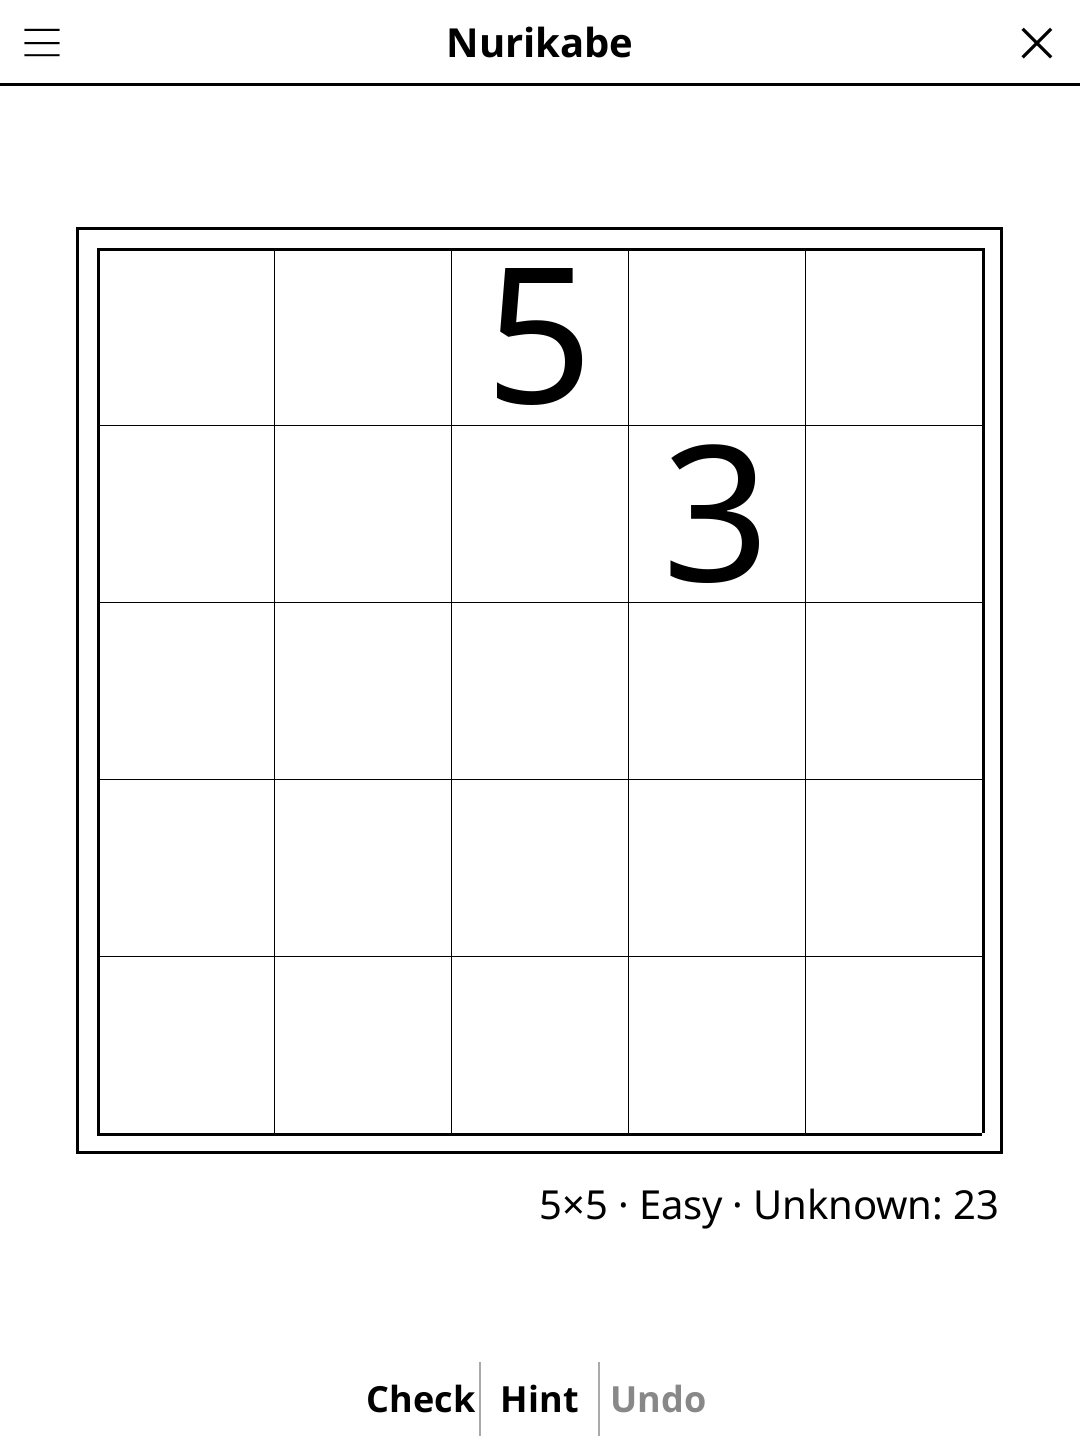
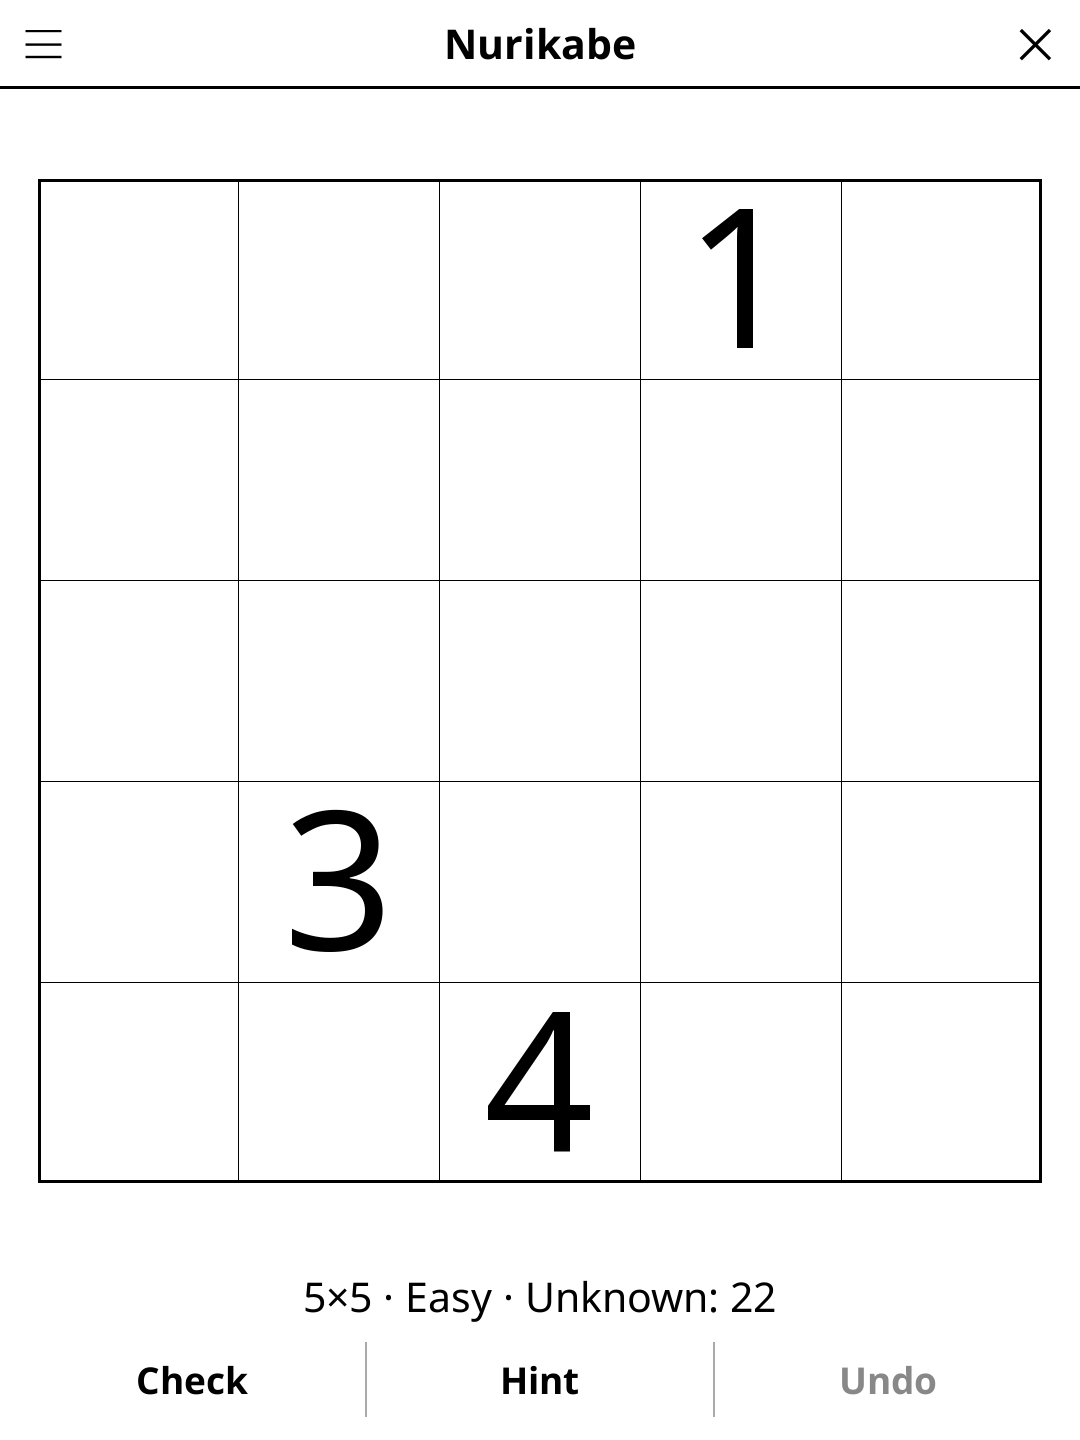
release: 1.3.0 -- redesigned screen, harmonised menu, New game at round end
Screen redesign (full-width action bar, unified pad, status line, larger
board), harmonised title-bar menu, and a "New game" button once the round
is over. See CHANGELOG.md.

diff --git a/CHANGELOG.md b/CHANGELOG.md
@@ -2,6 +2,31 @@
 
 All notable changes to this project will be documented in this file.
 
+## [1.3.0] - 2026-10-30
+
+### Added
+- "New game" once the puzzle is solved: the action bar shows it in place of
+  Check, Hint and Undo, so the next puzzle no longer needs the menu.
+
+### Changed
+- Redesigned play screen, in line with the other games: a full-width action
+  bar, a larger board that fills the available room, and one frame around
+  it. The status line reads "size · difficulty · Unknown: n" and wraps in
+  landscape instead of being cut off.
+- Title-bar menu in the same order as every other game, with the current
+  values shown: "Size: …" (was "Grid: …"), "Difficulty: …" (was "Diff:
+  …"), and "Show solution" / "Hide solution" (was a bare "Show" / "Hide").
+- New README screenshot.
+
+### Fixed
+- Tapping Undo crashed the game ("attempt to call method 'undo'").
+- Two-digit clues overflowed their cells; the font is now sized for the
+  largest clue on the board.
+- Using Hint wiped the saved game: the board was saved as nothing. And when
+  a hint fills the last cell, the status now shows the win message.
+- The board's closing grid line was drawn just past its right and bottom
+  edges.
+
 ## [1.2.2] - 2026-10-07
 
 ### Fixed

diff --git a/README.md b/README.md
@@ -45,8 +45,8 @@ to create a "river" (connected sea of black cells) and isolated "islands"
 | Undo last move | Tap **Undo** |
 | Check progress | Tap **Check** |
 | New game | Tap **New game** |
-| Change grid size | Tap **Grid** |
-| Change difficulty | Tap **Diff** |
+| Change grid size | Tap **Size** |
+| Change difficulty | Tap **Difficulty** |
 | Show rules | Tap **Rules** |
 
 ## Why e-ink friendly?
